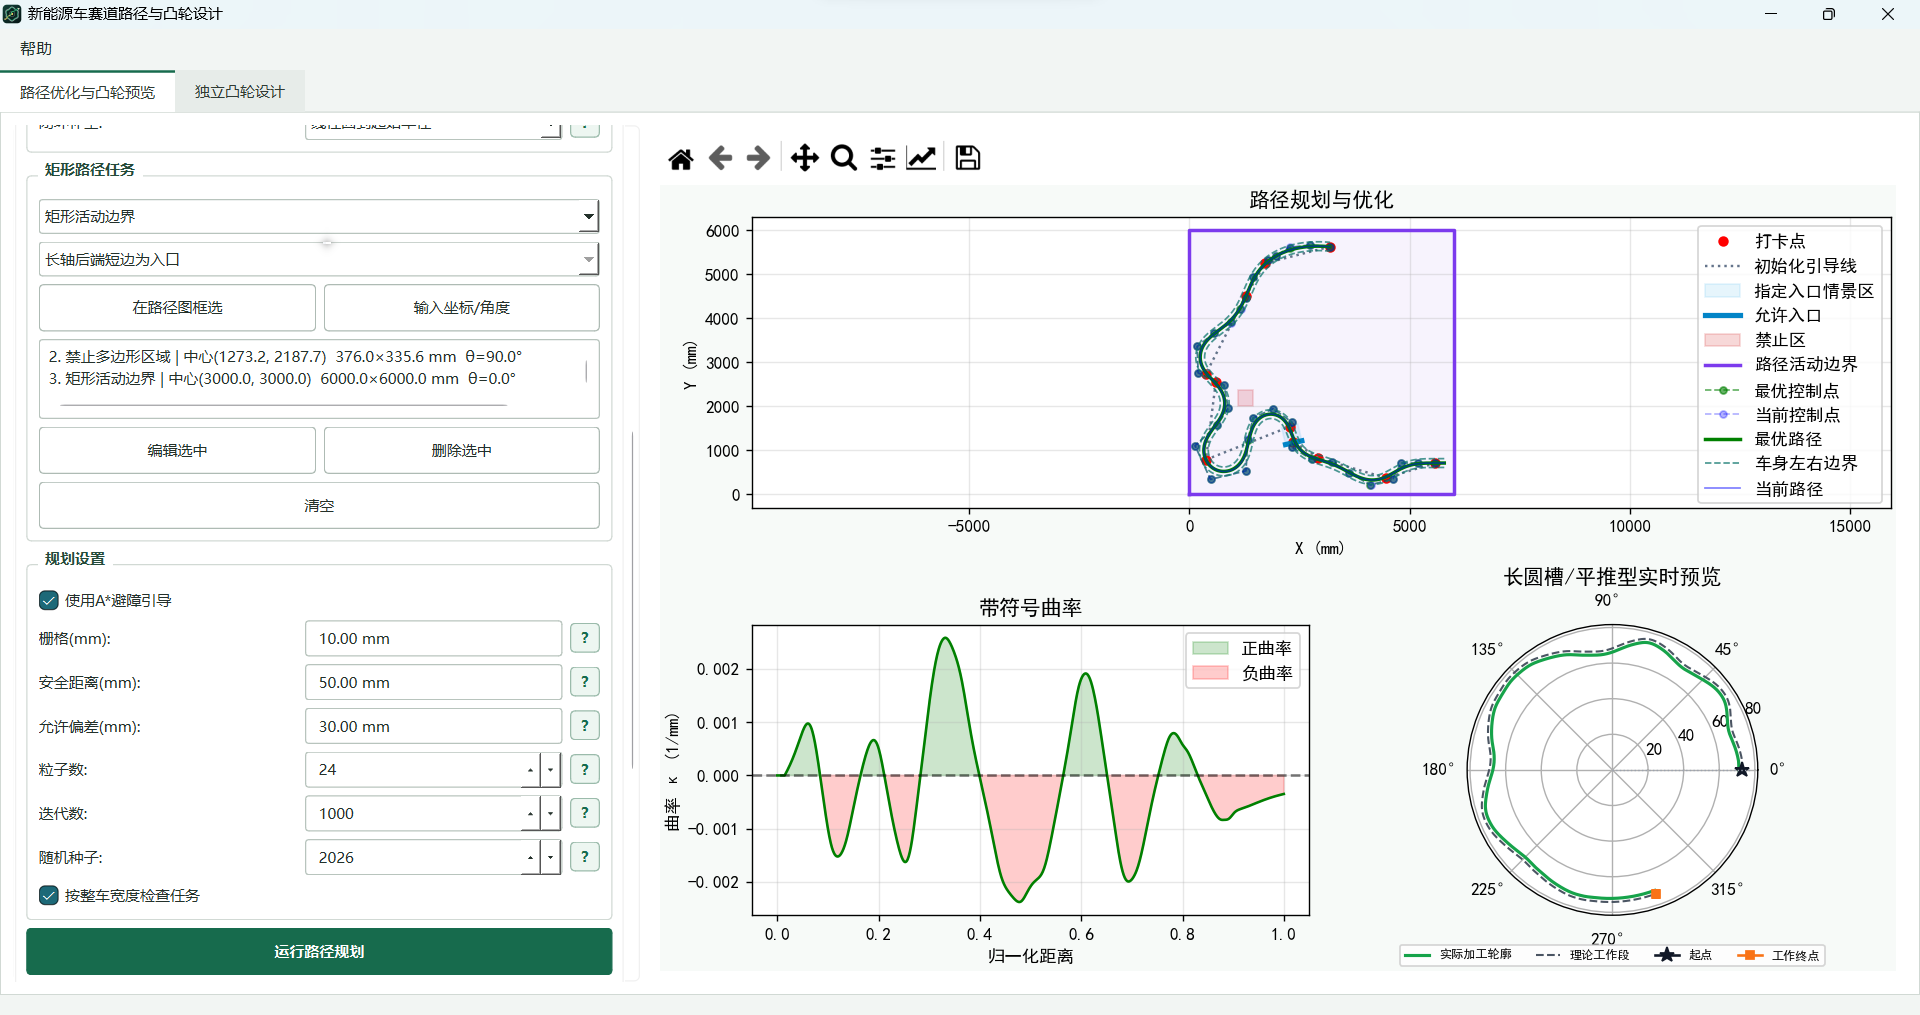
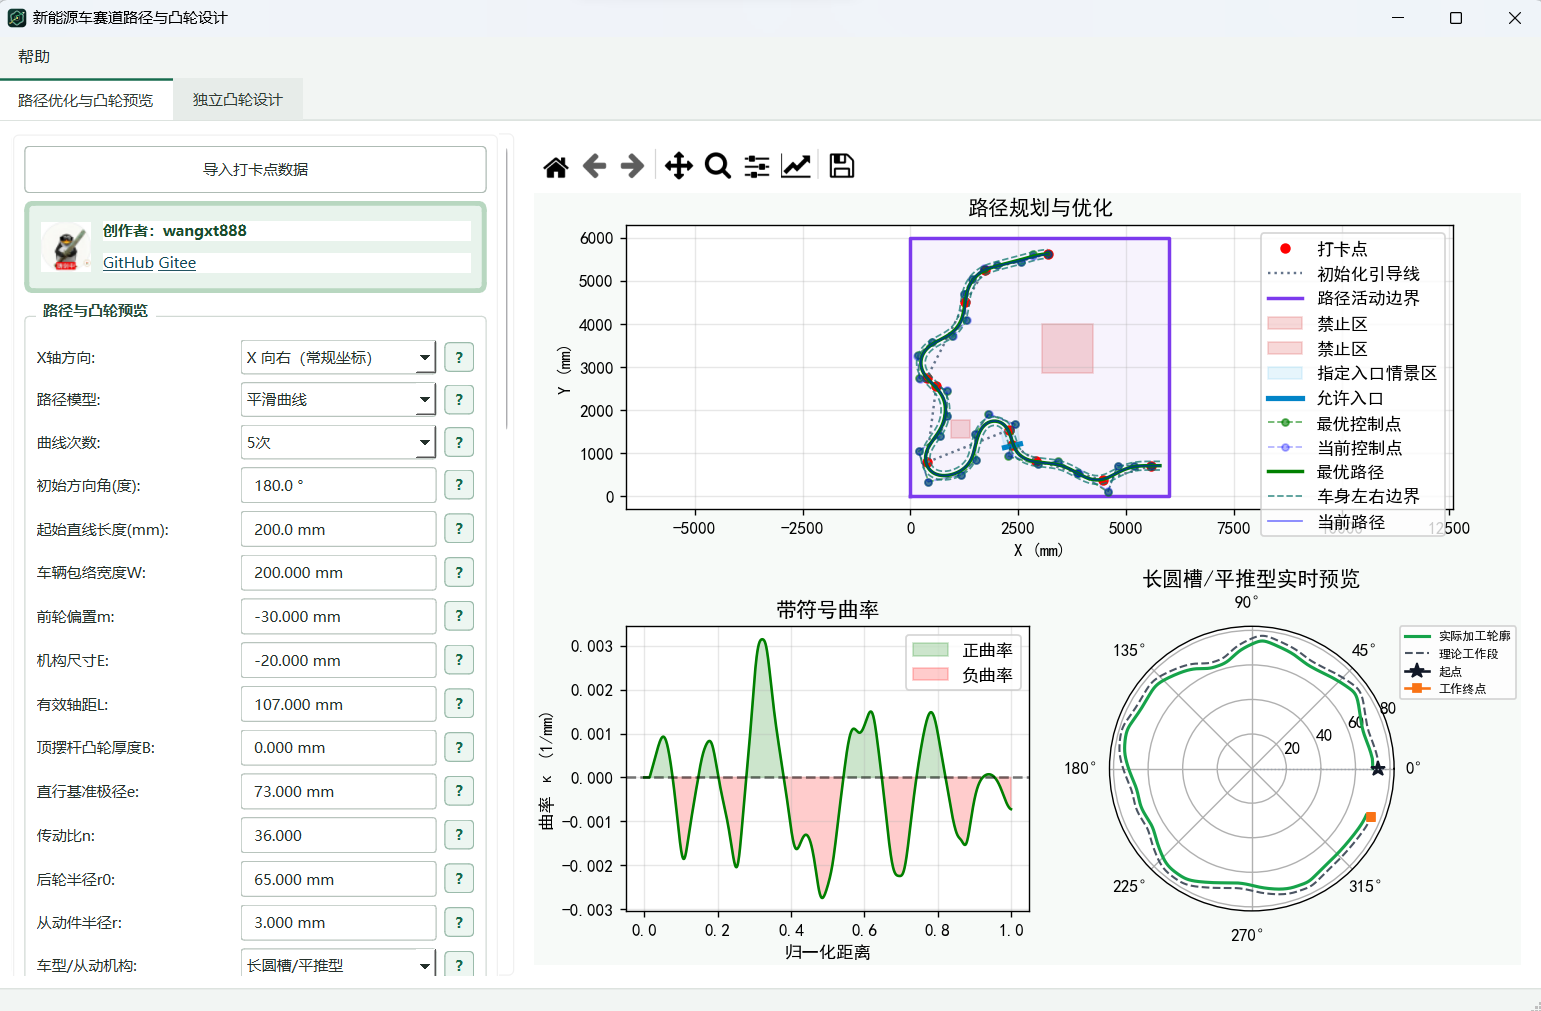
进一步完善

Changed region(s): [[0.0, 0.0, 1.0, 1.0], [0.3426, 0.1227, 0.5607, 0.184], [0.9345, 0.0, 0.9656, 0.0307]]

diff --git a/README.md b/README.md
@@ -11,7 +11,7 @@
 [![Windows](https://img.shields.io/badge/Windows-x64-0078D4?logo=windows11&logoColor=white)](../../releases)
 [![GPL--3.0--only](https://img.shields.io/badge/License-GPL--3.0--only-3B5CCC)](LICENSE)
 
-[下载运行包](../../releases) · [快速开始](#快速开始) · [路线演示](#2027-初赛路线演示) · [使用说明](#使用流程)
+[下载运行包](../../releases) · [快速开始](#快速开始) · [路径模式与效果](#路径模式与效果) · [使用说明](#使用流程)
 
 </div>
 
@@ -20,13 +20,13 @@
 路径、带符号曲率和凸轮轮廓在同一个界面中联动。导入打卡点后，可以添加禁止区、短边通道和指定入口情景区，运行路径优化，并同步观察凸轮工作段与闭环补全段。
 
 > [!IMPORTANT]
-> 软件会同时输出从动件中心的理论轮廓和考虑从动件半径的实际二维包络。更多细节请看[详细讲解视频以及下面介绍](assets/screenshots/app-overview.png)   待上传......
+> 软件会同时输出从动件中心的理论轮廓和考虑从动件半径的实际二维包络。更多细节请看[详细讲解视频以及下面介绍](assets/screenshots/app-overview.png) 待上传......
 
 ## 核心能力
 
 | | 功能 | 说明 |
 |---|---|---|
-| 路径规划 | 固定起终点与起始方向 | 支持平滑曲线、直线-圆弧和自动分组圆链三种模式 |
+| 路径规划 | 固定起终点与起始方向 | 支持平滑曲线和直圆路径两种模式 |
 | 场景任务 | 禁止区、短边通道、指定入口情景区 | 矩形可旋转，可在图中框选，也可输入中心、尺寸和角度 |
 | 整车校核 | 车辆宽度与附加安全距离 | 约束检查考虑车辆包络，不只检查路径中心线 |
 | 凸轮预览 | 路径优化时同步计算 | 支持顶摆球、顶摆杆、长圆槽/平推和扇面齿轮模型 |
@@ -58,8 +58,8 @@ python cam_gui.py
 
 演示采用 **5 次曲线、30 个粒子和 1000 次迭代**，最后一帧同时展示路径、曲率、凸轮轮廓与结果导出入口。
 
-1. 导入 `examples/waypoints.txt` 或自己的打卡点文件。（examples中还有今年的两个赛题打卡点）
-2. 选择 X 轴方向和路径模型，设置曲线次数或轮迹平滑级数、初始方向角和起始直线长度。
+1. 导入 `examples/` 或自己的打卡点文件。
+2. 选择 X 轴方向和路径模型，设置曲线次数或相切圆半径范围、初始方向角和起始直线长度。
 3. 根据赛题添加禁止区、短边通道或指定入口情景区。
 4. 选择车型，填写机构尺寸和从动件半径；参数旁的 `?` 可以查看测量位置和正负号。
 5. 设置允许偏差、粒子数和迭代数，开始路径规划。
@@ -67,17 +67,21 @@ python cam_gui.py
 
 规划过程中可以暂停，使用路径图工具栏缩放和平移；继续规划时会恢复完整视野。相同数据、参数和随机种子可以复现同一次优化结果。
 
-## 2027 初赛路线演示
+## 路径模式与效果
+
+### 平滑曲线路径
+
+平滑曲线路径会在允许偏差和场景约束内持续优化控制点，兼顾路径长度、曲率变化和凸轮轮廓。它适合需要同时观察车辆轨迹、曲率与凸轮平滑性的常规赛题。
 
 两组动画均由程序真实训练生成，统一采用 24 个粒子、600 次迭代、5 次平滑曲线、30 mm 允许偏差、200 mm 起始直线和随机种子 2026。
 
-### 太阳能电动车现场初赛
+#### 太阳能电动车现场初赛
 
 `examples/2027_solar_preliminary.txt` · X 向右 · 初始方向 `75.9638°` · 传动比 `42` · 最大偏差 `25.16 mm`
 
 ![2027 太阳能电动车现场初赛路线训练](assets/demo/2027-solar-preliminary.gif)
 
-### 生物质能电动车现场初赛
+#### 生物质能电动车现场初赛
 
 `examples/2027_biomass_preliminary.txt` · X 向左 · 初始方向 `46.8087°` · 传动比 `20` · 最大偏差 `29.69 mm`
 
@@ -85,6 +89,19 @@ python cam_gui.py
 
 > [!NOTE]
 > 初始方向按数据坐标计算：`0°` 沿 `+X`，`90°` 沿 `+Y`。生物质能地图的原点位于右下角，因此选择“X 向左（右下原点地图）”。
+
+### 直圆路径
+
+直圆路径由相切圆弧和直线组成。程序按给定初始方向依次通过打卡点，在车辆前进方向内搜索各点朝向，并在界面设置的相切圆半径范围内寻找可行解。
+
+它不需要粒子群迭代，通常计算更快，圆心和带符号半径也便于继续加工或校核。若提示无解，可先减小最小相切圆半径，再检查起始方向、起始直线、障碍物和场地边界是否过紧。
+
+| 太阳能电动车直圆路径 | 生物质能电动车直圆路径 |
+|---|---|
+| ![太阳能电动车直圆路径](assets/demo/solar.png) | ![生物质能电动车直圆路径](assets/demo/biomass.png) |
+
+> [!IMPORTANT]
+> 直圆结果需要搭配 [01铁匠网站](http://43.143.111.245:3030/) 的对应导入优化功能继续使用。该服务需要付费，但提供售后支持，当前配套流程较稳定；需要的可以加qq群：862127093了解。
 
 ## 路径任务
 
@@ -134,11 +151,12 @@ python cam_gui.py
 ```text
 result.txt             # 真实工作路径
 result_full_path.txt   # 真实路径 + 凸轮补全对应的虚拟路径
+circles.txt            # 精简相切圆参数：起点、圆心/带符号半径、终点
 cam_xyz.txt                # 实际加工凸轮 X、Y、Z 坐标
 cam_xyz_theoretical.txt    # 从动件中心的理论凸轮 X、Y、Z 坐标
 ```
 
-路径文件固定为“序号、X、Y、曲率、曲率半径、归一化距离”六列。保存凸轮时，所选文件保存考虑从动件半径的实际包络，同目录自动生成带 `_theoretical` 后缀的理论轮廓；两者均为纯数值 `X Y Z`。选择“不补全”时没有完整一圈数据，路径页不会启用凸轮导出按钮。
+路径文件固定为“序号、X、Y、曲率、曲率半径、归一化距离”六列。直圆路径可单独导出精简相切圆参数，文件头给出初始发车角度，后续为纯数值 `X Y R`；`R=0` 的首尾行分别是起点和终点，非零 `R` 为带方向的圆心半径。保存凸轮时，所选文件保存考虑从动件半径的实际包络，同目录自动生成带 `_theoretical` 后缀的理论轮廓；两者均为纯数值 `X Y Z`。选择“不补全”时没有完整一圈数据，路径页不会启用凸轮导出按钮。
 
 </details>
 
@@ -162,7 +180,7 @@ cam_xyz_theoretical.txt    # 从动件中心的理论凸轮 X、Y、Z 坐标
 
 <div align="center">
 
-由 [wangxt888](https://github.com/wangxt888) 与？？？？（想要参与的你们）维护。
+由 [wangxt888](https://github.com/wangxt888) 维护。对路径规划、凸轮设计或软件功能有任何想法，欢迎邮件交流：[luyu12w@gmail.com](mailto:luyu12w@gmail.com)。
 
 如果项目对你的备赛有帮助，欢迎点一个 **Star**。达到 **200 Star** 后，将在权利清晰、赛事规则允许的范围内整理并发布目前最新exe对应的源码并更新更多扩展功能。
 
